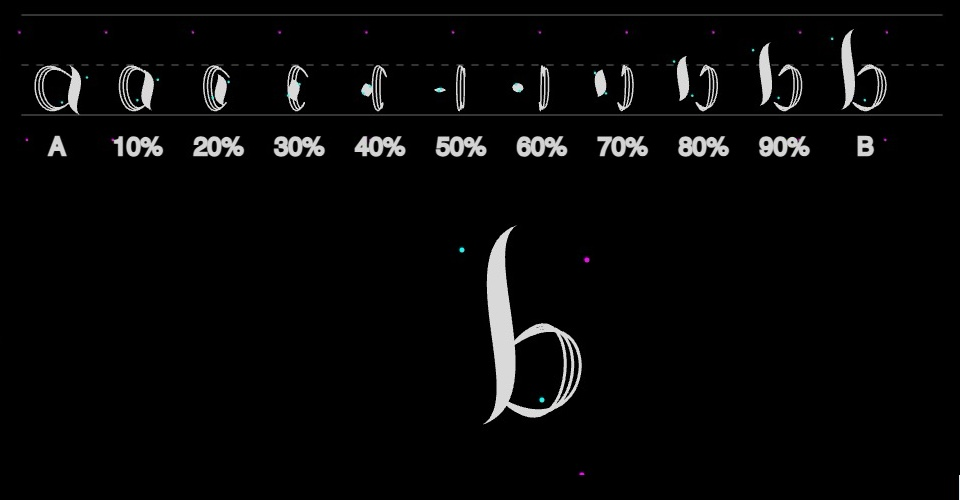
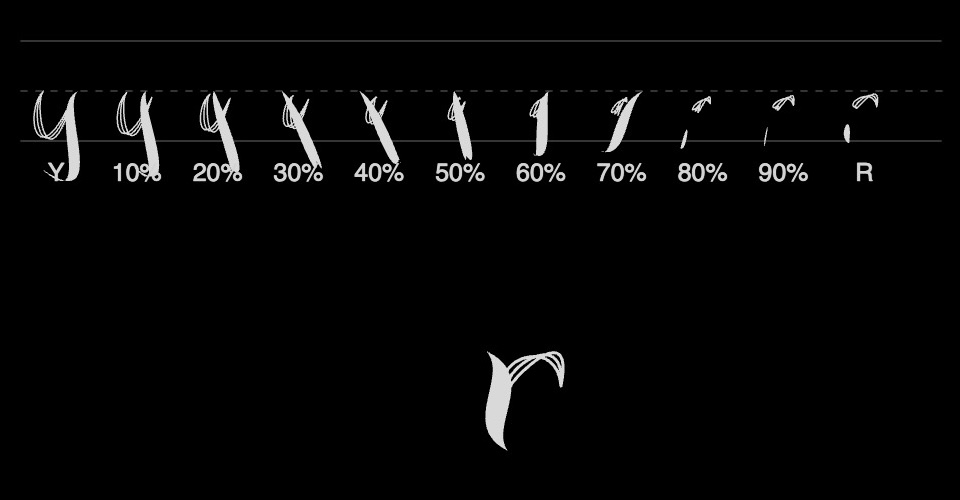
Max and min width to twist interpolation
Trying to use the minimum and maximum coordinates to flip the letters, didn't really work.

Changed region(s): [[0.0312, 0.06, 0.9688, 0.36], [0.5, 0.45, 0.625, 0.9]]

diff --git a/draw_letters.js b/draw_letters.js
@@ -19,6 +19,8 @@ const spacing = 10;
  * from (0,0) to (100, 200)
  */
 function drawLetter(letterData) {
+  let scaleX = letterData["scale"];
+
   // lined bezier parameters
   let bezierOneX1 = 0 + letterData["oneVar1"]; // first anchor x 
   let bezierOneY1 = 150 + letterData["oneVar2"]; // first anchor y
@@ -38,37 +40,67 @@ function drawLetter(letterData) {
   let bezierTwoX4 = 0 + letterData["twoVar7"]; // second anchor point x
   let bezierTwoY4 = 150 + letterData["twoVar8"]; // second anchor point y
 
-  // lined bezier curve
-  stroke(217, 217, 217);
-  strokeWeight(3);
-  noFill();
-  bezier(bezierOneX1, bezierOneY1, bezierOneX2, bezierOneY2, bezierOneX3, bezierOneY3, bezierOneX4, bezierOneY4);
-  bezier(bezierOneX1, bezierOneY1, bezierOneX2 + spacing, bezierOneY2 + spacing, bezierOneX3 + spacing, bezierOneY3 - spacing, bezierOneX4, bezierOneY4);
-  bezier(bezierOneX1, bezierOneY1, bezierOneX2 + 2 * spacing, bezierOneY2 + 2 * spacing, bezierOneX3 + 2 * spacing, bezierOneY3 - 2 * spacing, bezierOneX4, bezierOneY4);
+  
+  push();
 
-  // solid bezier curve
-  noStroke();
-  fill(217, 217, 217);
-  beginShape();
-  vertex(bezierTwoX1, bezierTwoY1);
-  bezierVertex(bezierTwoX2 + 1.5 * spacing, bezierTwoY2, bezierTwoX3 + 1.5 * spacing, bezierTwoY3, bezierTwoX4, bezierTwoY4);
-  bezierVertex(bezierTwoX3 - 1.5 * spacing, bezierTwoY3, bezierTwoX2 - 1.5 * spacing, bezierTwoY2, bezierTwoX1, bezierTwoY1);
-  endShape();
+  scale(scaleX, 1);
 
-  // TO DO
-  strokeWeight(5);
-  stroke(255, 0, 255);
-  point(bezierOneX2, bezierOneY2);
-  point(bezierOneX3, bezierOneY3);
-  stroke(0, 255, 255);
-  point(bezierTwoX2, bezierTwoY2);
-  point(bezierTwoX3, bezierTwoY3);
+    // lined bezier curve
+    stroke(217, 217, 217);
+    strokeWeight(3);
+    noFill();
+    bezier(bezierOneX1, bezierOneY1, bezierOneX2, bezierOneY2, bezierOneX3, bezierOneY3, bezierOneX4, bezierOneY4);
+    bezier(bezierOneX1, bezierOneY1, bezierOneX2 + spacing, bezierOneY2 + spacing, bezierOneX3 + spacing, bezierOneY3 - spacing, bezierOneX4, bezierOneY4);
+    bezier(bezierOneX1, bezierOneY1, bezierOneX2 + 2 * spacing, bezierOneY2 + 2 * spacing, bezierOneX3 + 2 * spacing, bezierOneY3 - 2 * spacing, bezierOneX4, bezierOneY4);
+  
+    // solid bezier curve
+    noStroke();
+    fill(217, 217, 217);
+    beginShape();
+    vertex(bezierTwoX1, bezierTwoY1);
+    bezierVertex(bezierTwoX2 + 1.5 * spacing, bezierTwoY2, bezierTwoX3 + 1.5 * spacing, bezierTwoY3, bezierTwoX4, bezierTwoY4);
+    bezierVertex(bezierTwoX3 - 1.5 * spacing, bezierTwoY3, bezierTwoX2 - 1.5 * spacing, bezierTwoY2, bezierTwoX1, bezierTwoY1);
+    endShape();
+  
+    // strokeWeight(5);
+    // stroke(255, 0, 255);
+    // point(bezierOneX2, bezierOneY2);
+    // point(bezierOneX3, bezierOneY3);
+    // stroke(0, 255, 255);
+    // point(bezierTwoX2, bezierTwoY2);
+    // point(bezierTwoX3, bezierTwoY3);
+
+  pop();
 }
 
 function interpolate_letter(percent, oldObj, newObj) {
-  let zero = 0;
-  let flipX = -1;
   let new_letter = {};
+
+  let maxX = 100;
+  let minX = 0;
+
+  if (percent < 33){
+    new_letter["twoVar1"] = map(percent, 0, 33, oldObj["twoVar1"], maxX);
+    new_letter["twoVar7"] = map(percent, 0, 33, oldObj["twoVar7"], minX);
+  }
+  else if (percent > 33 && percent < 66) {
+    new_letter["twoVar1"] = map(percent, 33, 66, maxX, minX);
+    new_letter["twoVar7"] = map(percent, 33, 66, minX, maxX);
+  }
+  else {
+    new_letter["twoVar1"] = map(percent, 66, 100, minX, newObj["twoVar1"]);
+  }
+
+  // if (percent < 50){
+  // let narrow = map(percent, 0, 50, 1, 0);
+  // new_letter["scale"] = narrow;
+  // percent = 0;
+  // }
+  // else {
+  //   let narrow = map(percent, 50, 100, 0, 1);
+  //   new_letter["scale"] = narrow;
+  //   percent = 100;
+  // }
 
   // if(percent < 60){
   //   new_letter["twoVar3"] = oldObj["twoVar3"];
@@ -79,26 +111,33 @@ function interpolate_letter(percent, oldObj, newObj) {
   //   new_letter["twoVar5"] = map(percent, 60, 100, oldObj["twoVar5"], newObj["twoVar5"]);
   // }
 
-  if(percent < 50){
-    new_letter["twoVar1"] = map(percent, 0, 50, oldObj["twoVar1"], zero);
-    new_letter["twoVar2"] = map(percent, 0, 50, oldObj["twoVar2"], zero);
-    new_letter["twoVar3"] = map(percent, 0, 50, oldObj["twoVar3"], zero);
-    new_letter["twoVar4"] = map(percent, 0, 50, oldObj["twoVar4"], zero);
-    new_letter["twoVar5"] = map(percent, 0, 50, oldObj["twoVar5"], zero);
-    new_letter["twoVar6"] = map(percent, 0, 50, oldObj["twoVar6"], zero);
-    new_letter["twoVar7"] = map(percent, 0, 50, oldObj["twoVar7"], zero);
-    new_letter["twoVar8"] = map(percent, 0, 50, oldObj["twoVar8"], zero);
-  }
-  else{
-    new_letter["twoVar1"] = map(percent, 50, 100, zero, newObj["twoVar1"]);
-    new_letter["twoVar2"] = map(percent, 50, 100, zero, newObj["twoVar2"]);
-    new_letter["twoVar3"] = map(percent, 50, 100, zero, newObj["twoVar3"]);
-    new_letter["twoVar4"] = map(percent, 50, 100, zero, newObj["twoVar4"]);
-    new_letter["twoVar5"] = map(percent, 50, 100, zero, newObj["twoVar5"]);
-    new_letter["twoVar6"] = map(percent, 50, 100, zero, newObj["twoVar6"]);
-    new_letter["twoVar7"] = map(percent, 50, 100, zero, newObj["twoVar7"]);
-    new_letter["twoVar8"] = map(percent, 50, 100, zero, newObj["twoVar8"]);
-  }
+  // let zero = 0;
+  // if(percent < 50){
+  //   new_letter["scale"] = map(percent, 0, 50, oldObj["scale"], zero);
+
+  //   new_letter["twoVar1"] = map(percent, 0, 50, oldObj["twoVar1"], zero);
+  //   new_letter["twoVar2"] = map(percent, 0, 50, oldObj["twoVar2"], zero);
+  //   new_letter["twoVar3"] = map(percent, 0, 50, oldObj["twoVar3"], zero);
+  //   new_letter["twoVar4"] = map(percent, 0, 50, oldObj["twoVar4"], zero);
+  //   new_letter["twoVar5"] = map(percent, 0, 50, oldObj["twoVar5"], zero);
+  //   new_letter["twoVar6"] = map(percent, 0, 50, oldObj["twoVar6"], zero);
+  //   new_letter["twoVar7"] = map(percent, 0, 50, oldObj["twoVar7"], zero);
+  //   new_letter["twoVar8"] = map(percent, 0, 50, oldObj["twoVar8"], zero);
+  // }
+  // else{
+  //   new_letter["scale"] = map(percent, 50, 100, zero, newObj["scale"]);
+
+  //   new_letter["twoVar1"] = map(percent, 50, 100, zero, newObj["twoVar1"]);
+  //   new_letter["twoVar2"] = map(percent, 50, 100, zero, newObj["twoVar2"]);
+  //   new_letter["twoVar3"] = map(percent, 50, 100, zero, newObj["twoVar3"]);
+  //   new_letter["twoVar4"] = map(percent, 50, 100, zero, newObj["twoVar4"]);
+  //   new_letter["twoVar5"] = map(percent, 50, 100, zero, newObj["twoVar5"]);
+  //   new_letter["twoVar6"] = map(percent, 50, 100, zero, newObj["twoVar6"]);
+  //   new_letter["twoVar7"] = map(percent, 50, 100, zero, newObj["twoVar7"]);
+  //   new_letter["twoVar8"] = map(percent, 50, 100, zero, newObj["twoVar8"]);
+  // }
+
+  new_letter["scale"] = map(percent, 0, 100, oldObj["scale"], newObj["scale"]);
 
   new_letter["oneVar1"] = map(percent, 0, 100, oldObj["oneVar1"], newObj["oneVar1"]);
   new_letter["oneVar2"] = map(percent, 0, 100, oldObj["oneVar2"], newObj["oneVar2"]);
@@ -110,13 +149,13 @@ function interpolate_letter(percent, oldObj, newObj) {
   new_letter["oneVar8"] = map(percent, 0, 100, oldObj["oneVar8"], newObj["oneVar8"]);
 
   //new_letter["twoVar1"]    = map(percent, 0, 100, oldObj["twoVar1"], newObj["twoVar1"]);
-  //new_letter["twoVar2"] = map(percent, 0, 100, oldObj["twoVar2"], newObj["twoVar2"]);
-  //new_letter["twoVar3"] = map(percent, 0, 100, oldObj["twoVar3"], newObj["twoVar3"]);
-  //new_letter["twoVar4"]    = map(percent, 0, 100, oldObj["twoVar4"], newObj["twoVar4"]);
-  //new_letter["twoVar5"] = map(percent, 0, 100, oldObj["twoVar5"], newObj["twoVar5"]);
-  //new_letter["twoVar6"] = map(percent, 0, 100, oldObj["twoVar6"], newObj["twoVar6"]);
+  new_letter["twoVar2"] = map(percent, 0, 100, oldObj["twoVar2"], newObj["twoVar2"]);
+  new_letter["twoVar3"] = map(percent, 0, 100, oldObj["twoVar3"], newObj["twoVar3"]);
+  new_letter["twoVar4"]    = map(percent, 0, 100, oldObj["twoVar4"], newObj["twoVar4"]);
+  new_letter["twoVar5"] = map(percent, 0, 100, oldObj["twoVar5"], newObj["twoVar5"]);
+  new_letter["twoVar6"] = map(percent, 0, 100, oldObj["twoVar6"], newObj["twoVar6"]);
   //new_letter["twoVar7"] = map(percent, 0, 100, oldObj["twoVar7"], newObj["twoVar7"]);
-  //new_letter["twoVar8"] = map(percent, 0, 100, oldObj["twoVar8"], newObj["twoVar8"]);
+  new_letter["twoVar8"] = map(percent, 0, 100, oldObj["twoVar8"], newObj["twoVar8"]);
  
   return new_letter;
 }
